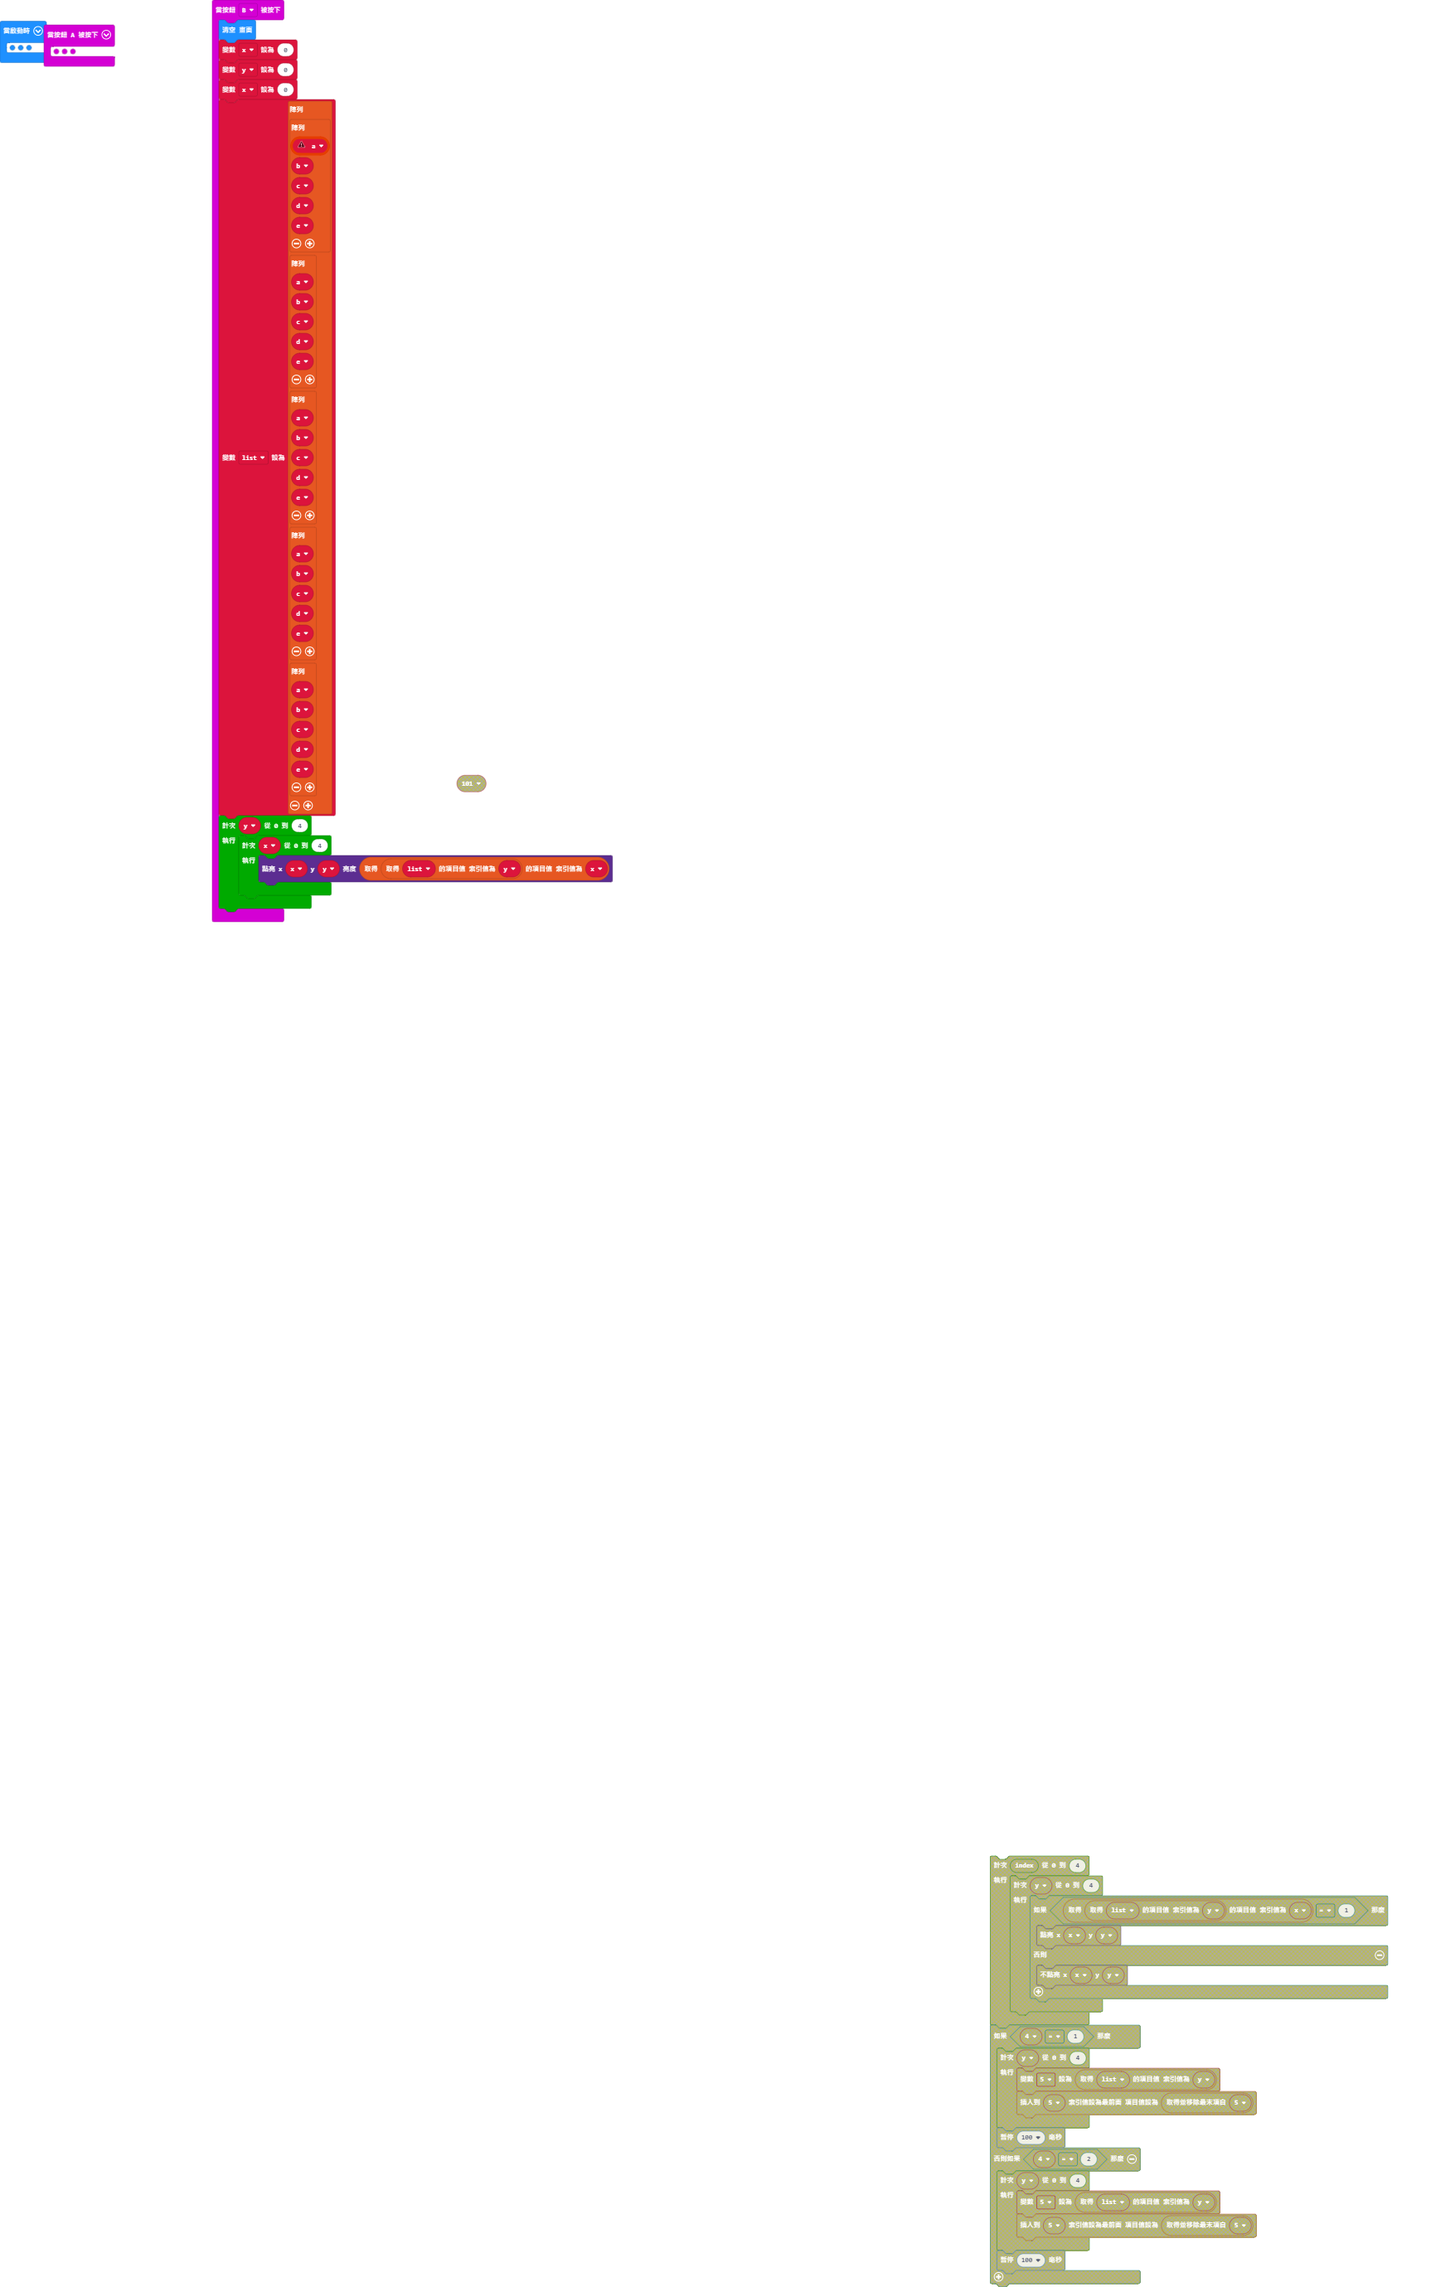
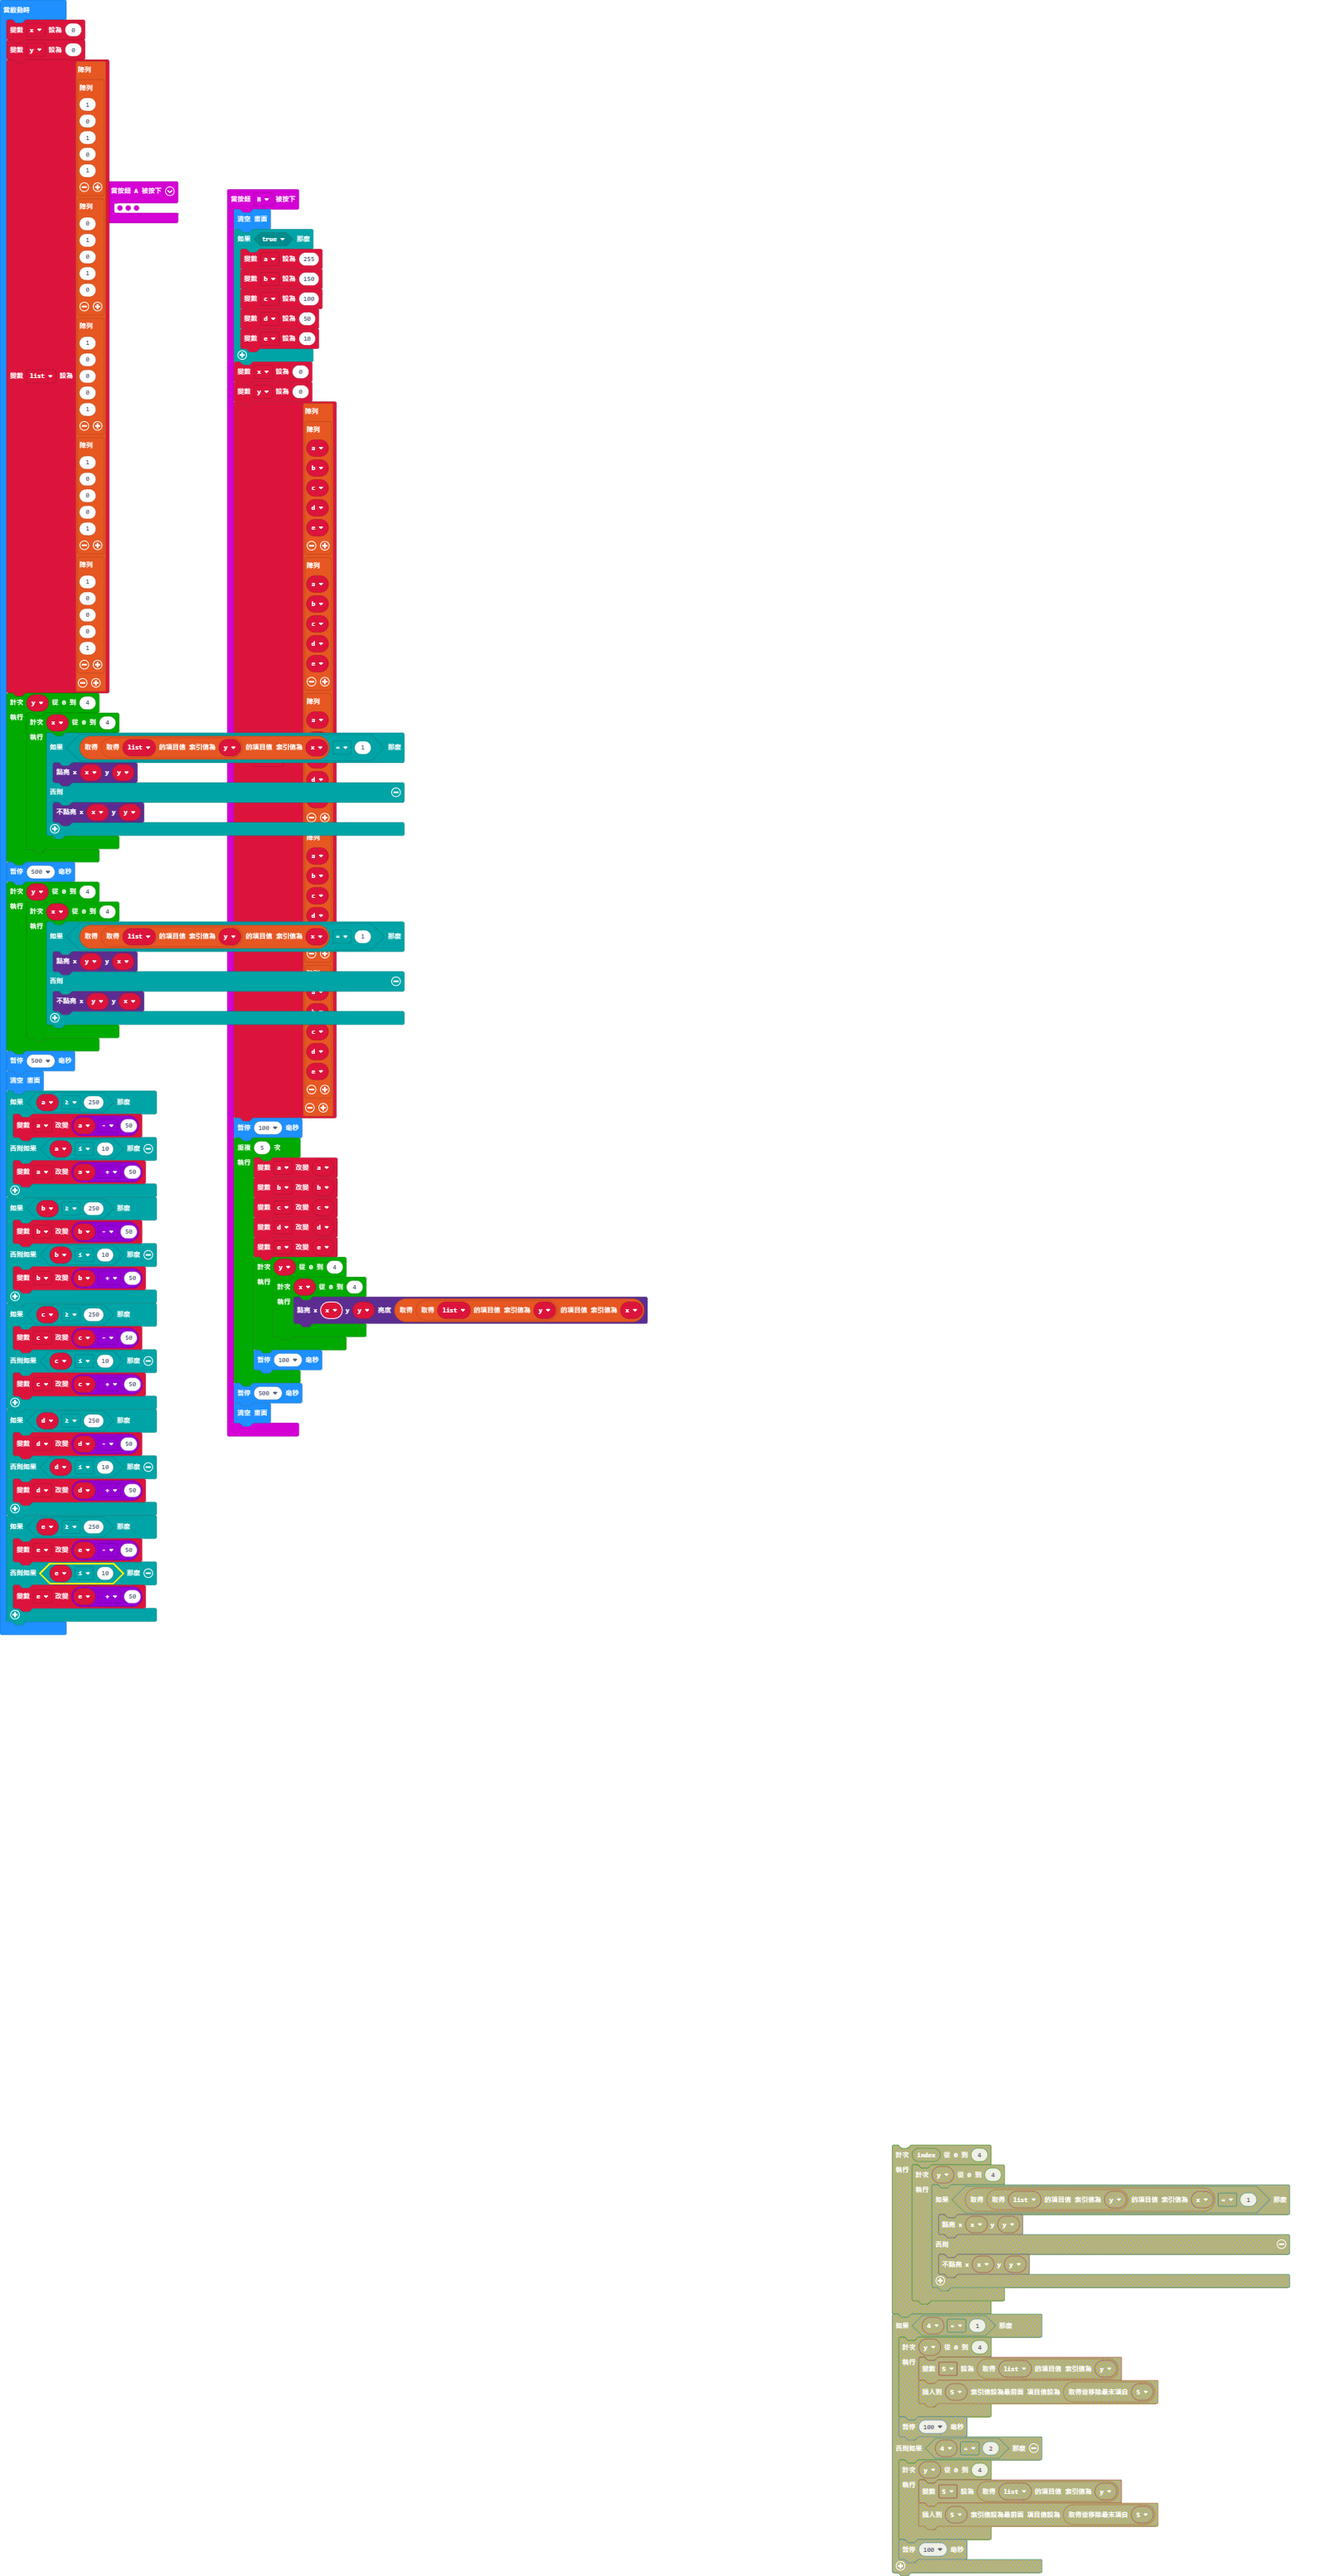
更新 main.blocks, main.ts

Changed region(s): [[0.0, 0.0, 0.4975, 0.6546], [0.653, 0.8104, 0.9639, 1.0]]

diff --git a/main.ts b/main.ts
@@ -45,17 +45,19 @@ input.onButtonPressed(Button.A, function () {
         }
     }
     basic.pause(100)
+    basic.clearScreen()
 })
 input.onButtonPressed(Button.B, function () {
-    let e = 0
-    let d = 0
-    let c = 0
-    let b = 0
-    let a: null = null
     basic.clearScreen()
+    if (true) {
+        a = 255
+        b = 150
+        c = 100
+        d = 50
+        e = 10
+    }
     x = 0
     y = 0
-    x = 0
     list = [
     [
     a,
@@ -93,12 +95,28 @@ input.onButtonPressed(Button.B, function () {
     e
     ]
     ]
-    for (let y = 0; y <= 4; y++) {
-        for (let x = 0; x <= 4; x++) {
-            led.plotBrightness(x, y, list[y][x])
+    basic.pause(100)
+    for (let index = 0; index < 5; index++) {
+        a += a
+        b += b
+        c += c
+        d += d
+        e += e
+        for (let y = 0; y <= 4; y++) {
+            for (let x = 0; x <= 4; x++) {
+                led.plotBrightness(x, y, list[y][x])
+            }
         }
+        basic.pause(100)
     }
+    basic.pause(500)
+    basic.clearScreen()
 })
+let e = 0
+let d = 0
+let c = 0
+let b = 0
+let a = 0
 let list: number[][] = []
 let y = 0
 let x = 0
@@ -162,3 +180,28 @@ for (let y = 0; y <= 4; y++) {
 }
 basic.pause(500)
 basic.clearScreen()
+if (a >= 250) {
+    a += a - 50
+} else if (a <= 10) {
+    a += a + 50
+}
+if (b >= 250) {
+    b += b - 50
+} else if (b <= 10) {
+    b += b + 50
+}
+if (c >= 250) {
+    c += c - 50
+} else if (c <= 10) {
+    c += c + 50
+}
+if (d >= 250) {
+    d += d - 50
+} else if (d <= 10) {
+    d += d + 50
+}
+if (e >= 250) {
+    e += e - 50
+} else if (e <= 10) {
+    e += e + 50
+}
